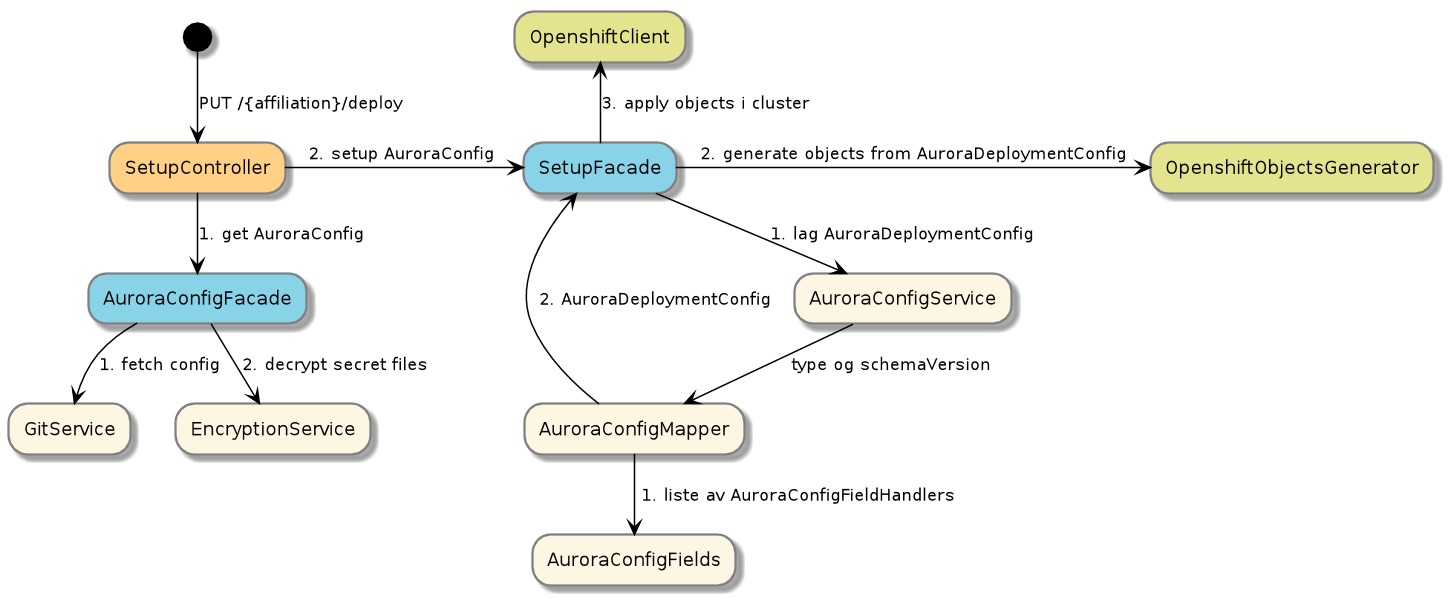
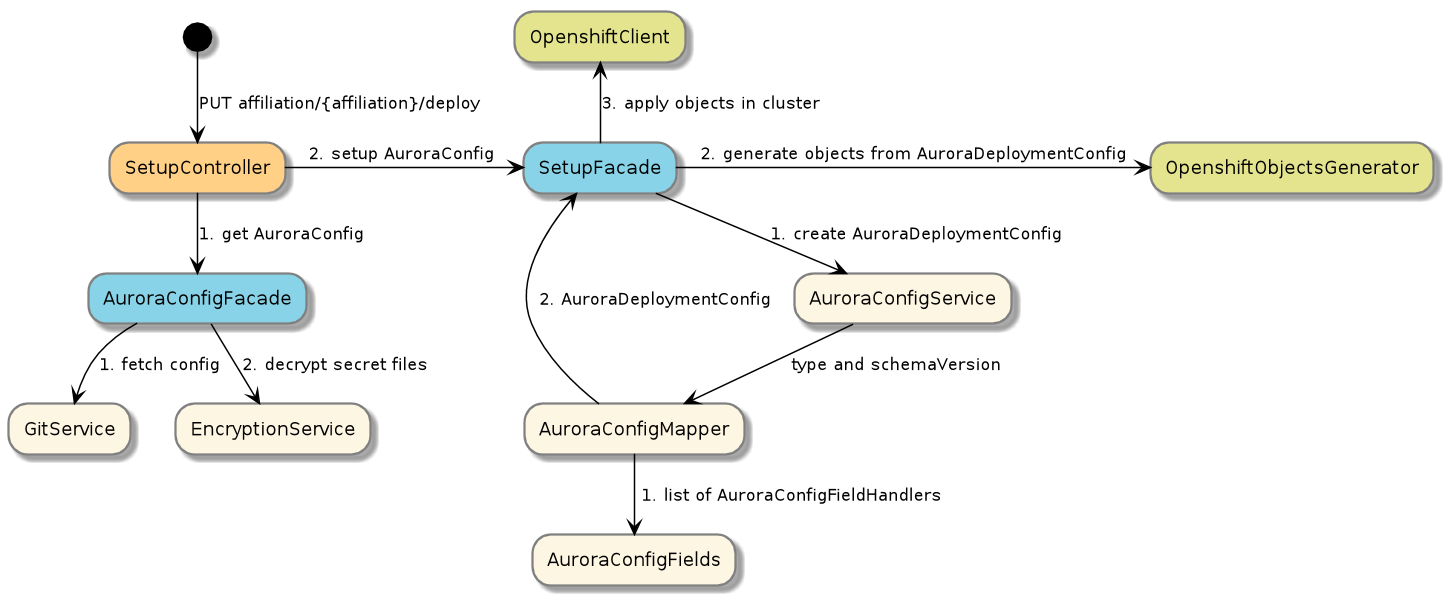
added example json file and new images

diff --git a/README.md b/README.md
@@ -28,9 +28,87 @@ component writing to it. It will ensure that the files written are valid and tha
 
 ## Concepts
 
+### Affiliation
+An affiliation is a group of projects and environments that are managed by the same team. Each affiliation has a 
+seperate git repo where their configuration is stored. 
+
+All projects created in openshift start with the name of the affiliation. 
+
+The affiliation project (has the same name as affiliation) is set up when a project has its Onboarding.
+
 ### AuroraConfig
 A set of versioned files (all files in one affiliation must have the same version) to express how to create projects
-and deploy applications on openshift
+and deploy applications on OpenShift
+
+filename           | name          | description  
+-------------------|---------------|:-----------------------------------------------------------------
+about.json         | global        | Global configuration for all applications in an affiliation 
+utv/about.json     | environment   | Environment configuration that is shared by all applications in an openshift project
+reference.json     | application   | Configuration shared by all instances of an application in all projects
+utv/refernce.json  | override      | Configuration specific to one application in one openshift project
+
+All properties in AuroraConfig can be set inn all files.
+ 
+Below is an json with all possible values ( and some comments)
+```json
+{
+  "schemaVersion" : "v1", //only supported version for now. Will get bumped if/when breaking changes occur
+  "type" : "deploy",  //valid types are deploy,development,localTemplate, template
+  "name" : "reference",
+  "cluster" : "utv", //what cluster to run on. We have 6 clusters utv,test,prod and utv-relay, test-relay, prod-relay
+  "replicas": 3, //run application in 3 replicas
+  "flags": {
+    "cert": true, //generate security token with name $groupId.$artifactId
+    "rolling": true, //we want rolling upgrade
+    "debug" : true, //turn on remote debugging. NB Should only be used in development
+    "alarm" : true //should this installation trigger alarms. Set to false to avoid alarms when setting up. In Prod it is always on
+  },
+  "permissions": {
+    "admin": {
+      "groups": "APP_PaaS_drift APP_PaaS_utv" //what AD groups can admin this project in openshift
+     }
+  },
+  "route": {
+    "generate": true, //will set host to $name-$namespace
+    "path" : "/foo",
+    "host" : "custom-host" //will get cluster prefix added
+  },
+  "resources" : { //set memory/cpu request and limit
+    "cpu": {
+      "max": "2000m",
+      "min" : "0"
+    },
+    "memory": {
+      "max": "256Mi",
+      "min" : "128Mi"
+    }
+  },
+  "groupId": "ske.aurora.openshift.referanse", //groupId for what to deploy
+  "artifactId": "openshift-referanse-springboot-server", //artifactId for what to deploy
+  "version": "0", //version to follow
+  "prometheus": { //where is prometheus located
+    "port": "8081",
+    "path": "/prometheus" 
+  },
+  "webseal": { //open up firewall with webseal
+    "path": "webseal-path", 
+    "roles": "role1, role2"
+  },
+  "managementPath": ":8081/actuator", //where is the management interface located
+  "database": "referanseapp", //fetch or create database with this name from DatabaseHotel
+  "config": {
+    "1.properties" : { //all applications that run in the 1 tree will get this
+           "FOO": "bar" //this will be an ENV var
+          },
+    "latest.properties": { //all other applications will get this
+      "FOO": "baz"  //this will be an ENV var
+    }
+  
+  },
+  "secretFolder": "/tmp/test" //all files inside this dir is added in a secret.
+}
+
+```
 
 ### AuroraDeploymentConfiguration
 An internal represetantion of AuroraConfig that is normalized from an AuroraConfig via a AuroraConfigMapper abstraction.
